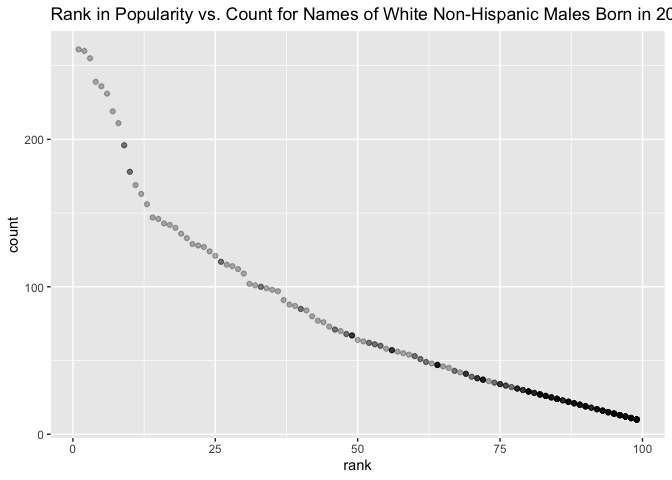
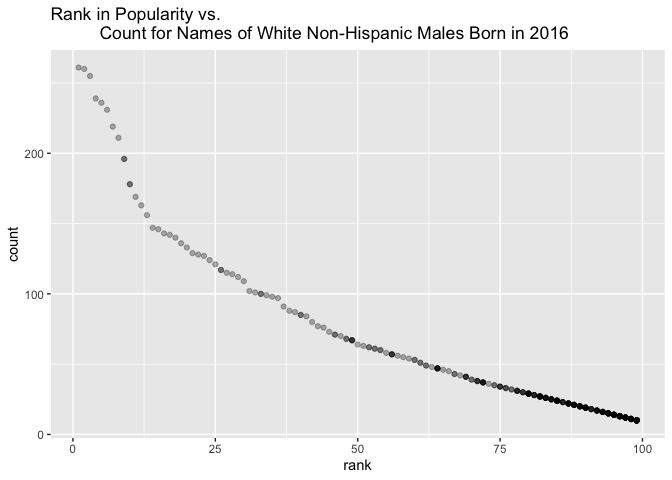
added comments for code, adding message = FALSe and warning = FALSE for r code chunks

diff --git a/p8105_hw2_rr3423.md b/p8105_hw2_rr3423.md
@@ -57,6 +57,7 @@ precipitation_df =
 ### Data summary
 
 ``` r
+# creating variables for variable names, total precipitation, median, mean, row, columns for precipitation 18
 names_p18 = precipitation_2018_df %>% names()
 precipitation_18_total = precipitation_2018_df %>% summarise(sum(total))
 p18_median = precipitation_2018_df %>% summarise(median(total))
@@ -64,6 +65,7 @@ p18_mean = precipitation_2018_df %>% summarise(mean(total))
 p18_row = precipitation_2018_df %>% nrow()
 p18_col = precipitation_2018_df %>% ncol()
 
+# creating variables for variable names, total precipitation, median, mean, row, columns for precipitation 18
 names_p19 = precipitation_2019_df %>% names()
 precipitation_19_total = precipitation_2019_df %>% summarise(sum(total))
 p19_median = precipitation_2019_df %>% summarise(median(total))
@@ -71,10 +73,12 @@ p19_mean = precipitation_2019_df %>% summarise(mean(total))
 p19_row =  precipitation_2019_df %>% nrow()
 p19_col = precipitation_2019_df %>% ncol()
 
+# creating variables for names, rows, and columns for mr. trash wheel dataset 
 names_trash = mr_trash_wheel_df %>% names()
 trash_rows = mr_trash_wheel_df %>% nrow()
 trash_columns = mr_trash_wheel_df %>% ncol()
 
+# finding the median sport balls in 2019 
 median_sports_balls = mr_trash_wheel_df %>% 
   filter(year == 2019) %>% 
   summarise(median(sports_balls))
@@ -107,6 +111,7 @@ a dumpster in 2019 is **9**.
 ### Cleaning data in pols-month.csv
 
 ``` r
+# importing pols-month dataset, then cleaning the data using separate, mutate, and select functions 
 pols_month_df = 
   read_csv("data/fivethirtyeight_datasets/pols-month.csv") %>% 
   janitor::clean_names() %>% 
@@ -120,20 +125,10 @@ pols_month_df =
   select(year, month, president, everything())
 ```
 
-    ## Rows: 822 Columns: 9
-
-    ## ── Column specification ────────────────────────────────────────────────────────
-    ## Delimiter: ","
-    ## dbl  (8): prez_gop, gov_gop, sen_gop, rep_gop, prez_dem, gov_dem, sen_dem, r...
-    ## date (1): mon
-
-    ## 
-    ## ℹ Use `spec()` to retrieve the full column specification for this data.
-    ## ℹ Specify the column types or set `show_col_types = FALSE` to quiet this message.
-
 ### Cleaning data in snp.csv
 
 ``` r
+# importing the snp dataset, then cleaning the data using separate, mutate, and select functions 
 snp_df = 
   read_csv("data/fivethirtyeight_datasets/snp.csv") %>% 
   janitor::clean_names() %>% 
@@ -145,20 +140,10 @@ snp_df =
   select(year, month, close, everything()) 
 ```
 
-    ## Rows: 787 Columns: 2
-
-    ## ── Column specification ────────────────────────────────────────────────────────
-    ## Delimiter: ","
-    ## chr (1): date
-    ## dbl (1): close
-
-    ## 
-    ## ℹ Use `spec()` to retrieve the full column specification for this data.
-    ## ℹ Specify the column types or set `show_col_types = FALSE` to quiet this message.
-
 ### Tidying data in unemployment.csv
 
 ``` r
+# importing the unemployment dataset, then cleaning and tidying the data using pivot_longer and mutate functions 
 unemployment_df = 
   read_csv("data/fivethirtyeight_datasets/unemployment.csv") %>% 
   janitor::clean_names() %>% 
@@ -174,41 +159,35 @@ unemployment_df =
                         "oct" = "October", "nov" = "November", "dec" = "December"))
 ```
 
-    ## Rows: 68 Columns: 13
-
-    ## ── Column specification ────────────────────────────────────────────────────────
-    ## Delimiter: ","
-    ## dbl (13): Year, Jan, Feb, Mar, Apr, May, Jun, Jul, Aug, Sep, Oct, Nov, Dec
-
-    ## 
-    ## ℹ Use `spec()` to retrieve the full column specification for this data.
-    ## ℹ Specify the column types or set `show_col_types = FALSE` to quiet this message.
-
 ### Merging pols-month, snp, and unemployment datasets
 
 ``` r
+# merging the three datasets of interest using left_join two separate times 
 merged_df_one = 
   left_join(pols_month_df, snp_df, by = c("year", "month"))
 
-merged_df_final = 
+merged_538_df = 
   left_join(merged_df_one, unemployment_df, by = c("year", "month"))
 ```
 
 ### Data summary
 
 ``` r
+# creating variables for names, dimension, and range of years for pols-month df 
 names_pols = pols_month_df %>% names()
 dimension_pols = pols_month_df %>%  dim()
 range_pols = pols_month_df %>% 
   select(year) %>% 
   range()
 
+# creating variables for names, dimension, and range of years for snp df 
 names_snp = snp_df %>% names()
 dimension_snp = snp_df %>% dim()
 range_snp = snp_df %>% 
   select(year) %>% 
   range()
 
+# creating variables for names, dimension, and range of years for unemployment df 
 names_unemployment = unemployment_df %>% names() 
 dimension_unemployment = unemployment_df %>% dim()
 range_unemployment = unemployment_df %>% 
@@ -241,7 +220,7 @@ percentage**. The **dimension** of the umemployment dataset are **816,
 ### Loading and tidying popular baby names data
 
 ``` r
-# formatting names of categorical predictor and case structure of string variables 
+# formatting names of categorical predictor and case structure of string variables using mutate function
 baby_names_df = 
   read_csv("data/Popular_Baby_Names.csv") %>% 
   janitor::clean_names() %>% 
@@ -254,19 +233,10 @@ baby_names_df =
          childs_first_name = str_to_sentence(childs_first_name))
 ```
 
-    ## Rows: 19418 Columns: 6
-
-    ## ── Column specification ────────────────────────────────────────────────────────
-    ## Delimiter: ","
-    ## chr (3): Gender, Ethnicity, Child's First Name
-    ## dbl (3): Year of Birth, Count, Rank
-
-    ## 
-    ## ℹ Use `spec()` to retrieve the full column specification for this data.
-    ## ℹ Specify the column types or set `show_col_types = FALSE` to quiet this message.
+### Removing any duplicated rows in this dataset
 
 ``` r
-# removing duplicated rows in popular baby names dataset 
+# removing duplicated rows in popular baby names dataset using distinct function
 baby_names_df = 
   baby_names_df %>% distinct()
 ```
@@ -283,6 +253,7 @@ olivia_table_df =
   ) %>% 
   select(childs_first_name, gender, ethnicity, "2011", "2012", "2013", "2014", "2015", "2016")
 
+# displaying table 
 knitr::kable(olivia_table_df)
 ```
 
@@ -305,6 +276,7 @@ male_table_df =
   ) %>% 
   select(rank, gender, ethnicity, "2011", "2012", "2013", "2014", "2015", "2016")
 
+# displaying table 
 knitr::kable(male_table_df)
 ```
 
@@ -326,9 +298,10 @@ scatterplot_df =
 number_scatterplot = 
   ggplot(scatterplot_df, aes(x = rank, y = count)) + 
   geom_point(alpha = 0.3) +
-  ggtitle("Rank in Popularity vs. Count for Names of White Non-Hispanic Males Born in 2016")
+  ggtitle("Rank in Popularity vs. 
+          Count for Names of White Non-Hispanic Males Born in 2016")
 
-# calling scatterplot 
+# displaying scatterplot 
 number_scatterplot 
 ```
 
